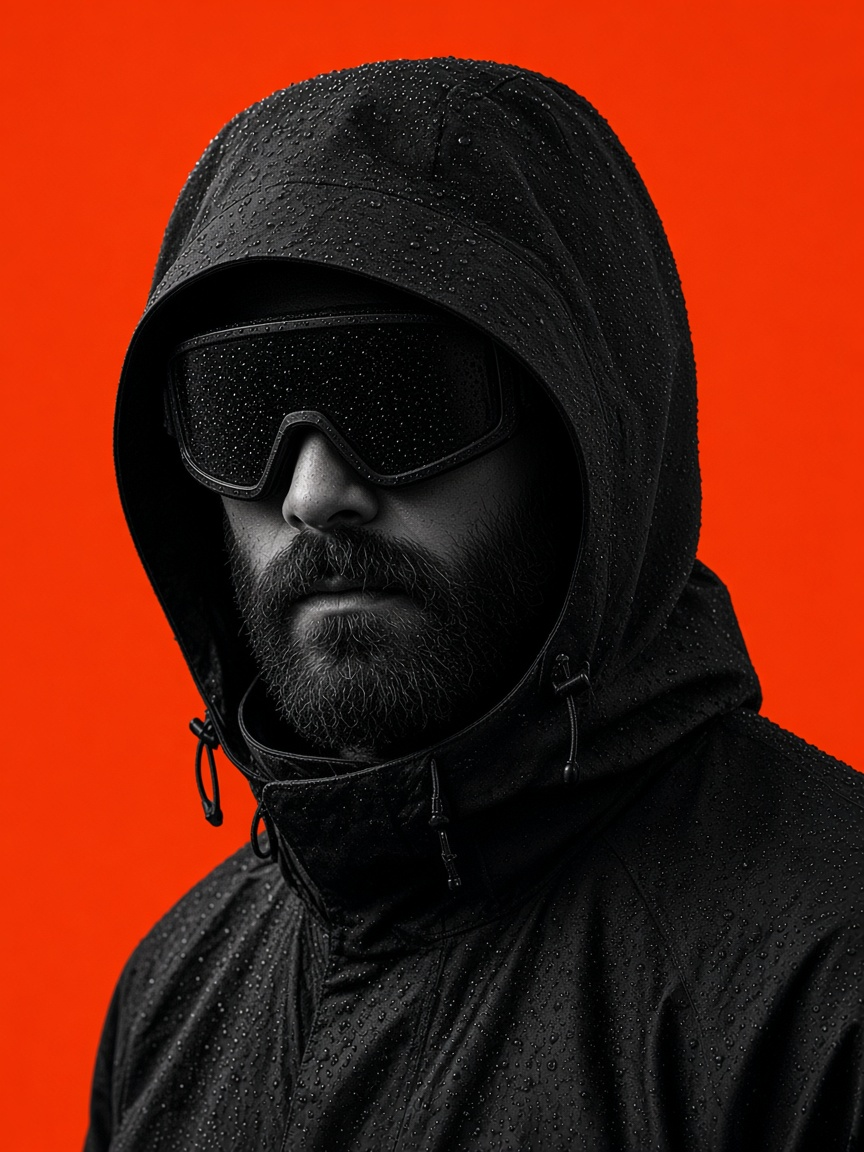
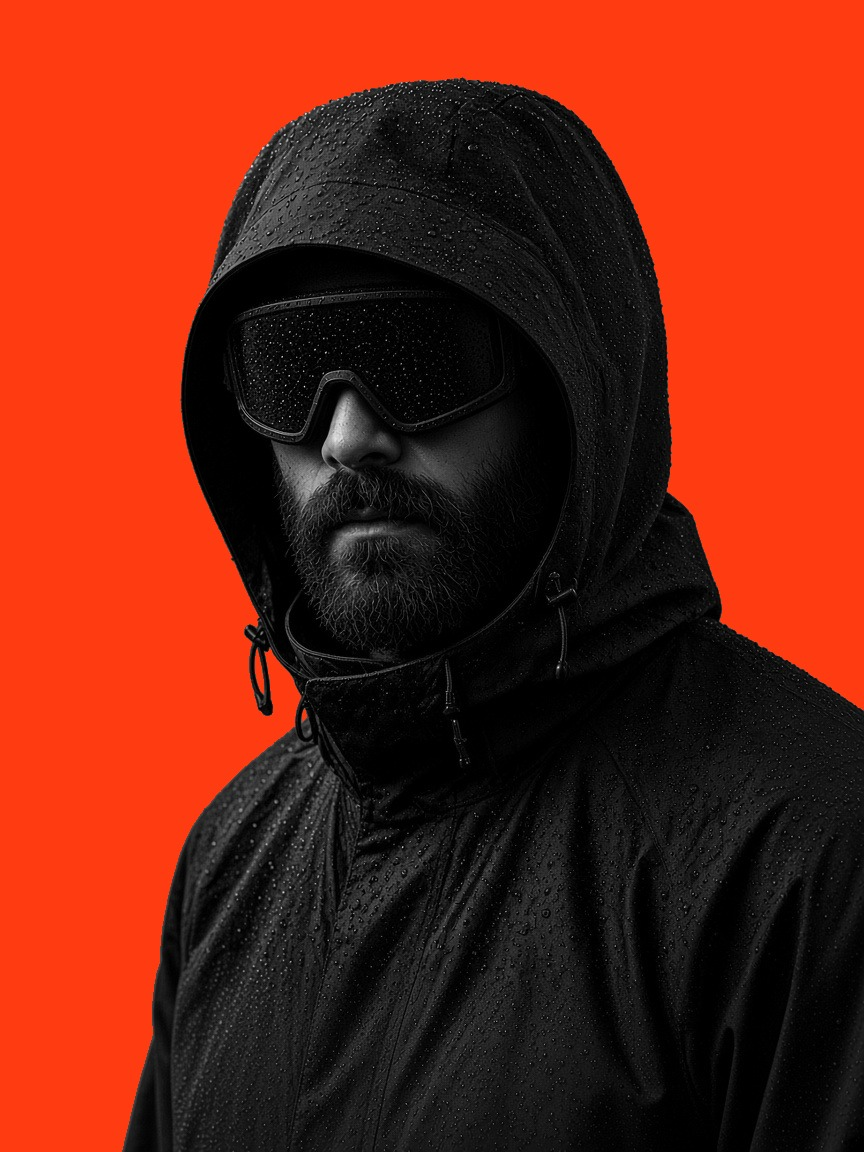
Keep the hero figure fully in frame instead of cropping the right shoulder.

diff --git a/js/storm.js b/js/storm.js
@@ -112,7 +112,7 @@
     const meshes = [];
     let loaded = 0;
     const mouse = { x: 0, y: 0 };
-    const state = { progress: 0, pose: 0, poseClock: 0 };
+    const state = { progress: 0, pose: 0, poseClock: 0, baseX: 1.02, baseS: 0.66 };
 
     sources.forEach((src, i) => {
       loader.load(src, (tex) => {
@@ -128,7 +128,7 @@
           fragmentShader,
           transparent: true,
         });
-        const mesh = new THREE.Mesh(new THREE.PlaneGeometry(4.2, 6.3, 1, 1), mat);
+        const mesh = new THREE.Mesh(new THREE.PlaneGeometry(4.5, 6.0, 1, 1), mat);
         group.add(mesh);
         meshes[i] = mesh;
         loaded += 1;
@@ -150,6 +150,9 @@
       renderer.setSize(w, h, false);
       camera.aspect = w / h;
       camera.updateProjectionMatrix();
+      const tall = w / h < 1.05;
+      state.baseX = tall ? 0.18 : 1.08;
+      state.baseS = tall ? 0.8 : 0.72;
     }
 
     resize();
@@ -162,10 +165,10 @@
       const p = state.progress;
       const live = 1 - p;
 
-      group.rotation.y = Math.sin(now * 0.00055) * 0.22 * live + mouse.x * 0.28 * live + p * -0.12;
-      group.rotation.x = Math.sin(now * 0.0004) * 0.06 * live + mouse.y * -0.12 * live + p * 0.05;
-      group.position.set(1.72 - p * 0.72, -0.2 + p * 0.12, p * 0.9);
-      group.scale.setScalar(0.78 + p * 0.95);
+      group.rotation.y = Math.sin(now * 0.00055) * 0.12 * live + mouse.x * 0.16 * live + p * -0.08;
+      group.rotation.x = Math.sin(now * 0.0004) * 0.05 * live + mouse.y * -0.08 * live + p * 0.04;
+      group.position.set(state.baseX - p * 0.28, -0.06 + p * 0.08, p * 0.55);
+      group.scale.setScalar(state.baseS + p * 0.62);
       camera.position.z = 8.6 - p * 2.6;
       host.style.opacity = String(Math.max(0, 1 - Math.max(0, p - 0.8) * 5.5));
 

diff --git a/index.html b/index.html
@@ -7,7 +7,7 @@
   <title>Amazing Websites — Never Stop Building</title>
   <link rel="icon" type="image/png" href="img/favicon.png" />
   <link rel="stylesheet" href="https://cdn.jsdelivr.net/npm/lenis@1.1.20/dist/lenis.css" />
-  <link rel="stylesheet" href="css/storm.css?v=storm13" />
+  <link rel="stylesheet" href="css/storm.css?v=storm23" />
 </head>
 <body class="page-home">
   <header class="sl-top">
@@ -136,6 +136,6 @@
   <script src="https://cdn.jsdelivr.net/npm/gsap@3.13.0/dist/ScrollTrigger.min.js"></script>
   <script src="https://cdn.jsdelivr.net/npm/lenis@1.1.20/dist/lenis.min.js"></script>
   <script src="https://cdnjs.cloudflare.com/ajax/libs/three.js/0.160.1/three.min.js"></script>
-  <script src="js/storm.js?v=13"></script>
+  <script src="js/storm.js?v=23"></script>
 </body>
 </html>

diff --git a/css/storm.css b/css/storm.css
@@ -162,10 +162,10 @@ ul {
 
 .lab__figure-wrap {
   position: absolute;
-  right: -4%;
-  top: -10%;
-  width: min(72vw, 1040px);
-  height: 128%;
+  right: 2%;
+  top: -4%;
+  width: min(52vw, 780px);
+  height: 112%;
   z-index: 2;
   pointer-events: none;
   perspective: 1400px;
@@ -201,7 +201,7 @@ ul {
   width: 100%;
   height: 100%;
   object-fit: cover;
-  object-position: 62% 18%;
+  object-position: 50% 12%;
   filter: grayscale(1) contrast(1.28) brightness(0.86);
   opacity: 0;
   transition: opacity 0.85s ease;
@@ -798,8 +798,11 @@ body.menu-open {
   }
 
   .lab__figure-wrap {
-    right: -18%;
-    width: 110vw;
+    right: 50%;
+    transform: translateX(50%);
+    width: min(92vw, 420px);
+    height: 70%;
+    top: 18%;
   }
 
   .offers,
